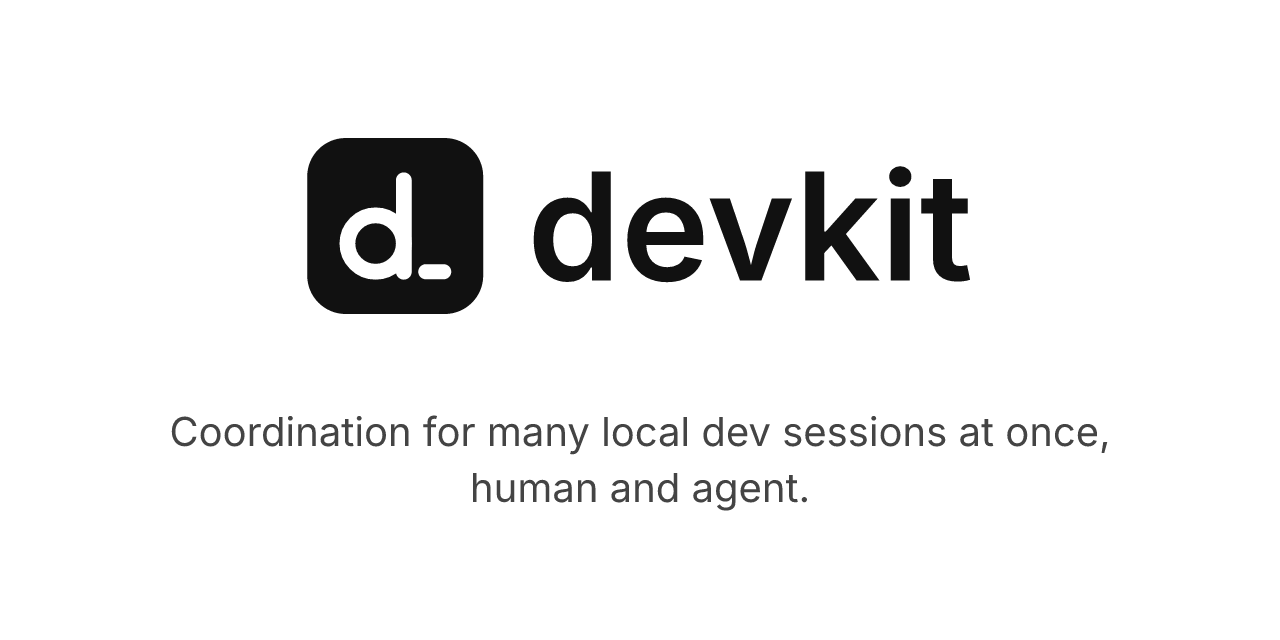
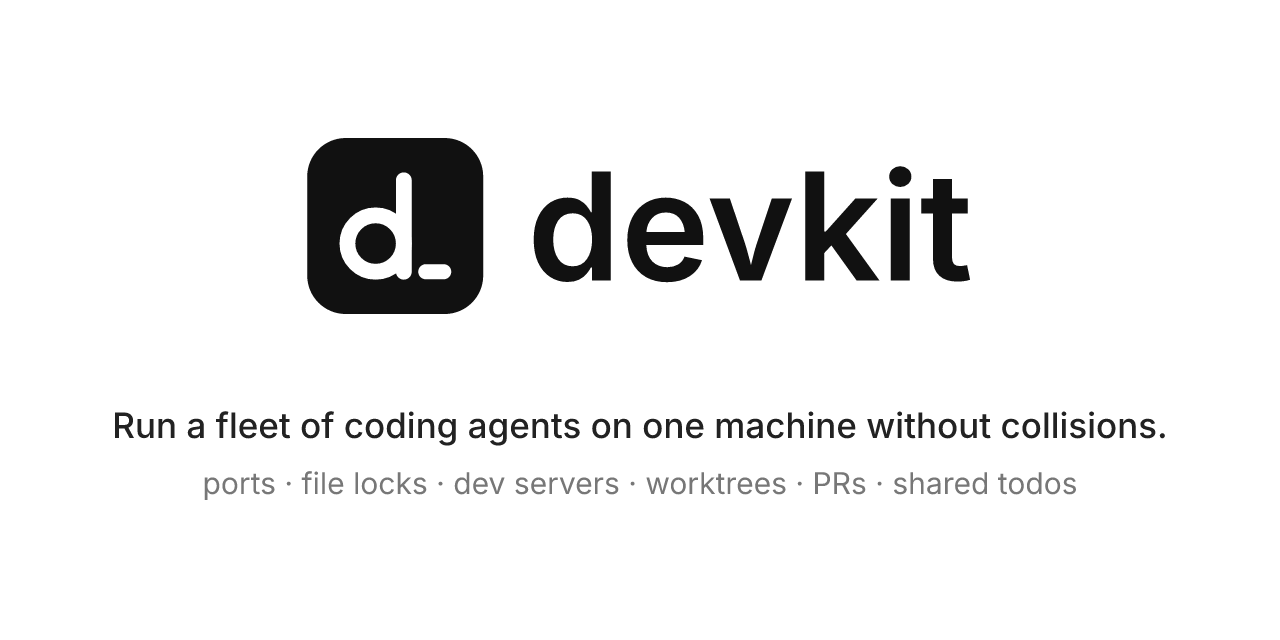
docs: lead with running a fleet of agents
The tagline described the original registries alone. devkit now also
shares todo lists across agents and machines and guards writes and
shell commands through its hooks, so the README opening and the social
card lead with the problem it solves and list what it covers.

Changed region(s): [[0.0938, 0.625, 0.9062, 0.8125]]

diff --git a/README.md b/README.md
@@ -5,14 +5,15 @@
 <h1 align="center">devkit</h1>
 
 <p align="center">
-    Coordination for running many local dev sessions at once, human and agent, as one <code>devkit</code> binary plus an optional <code>devkitd</code> daemon.
+    Run a fleet of coding agents on one machine without collisions.
 </p>
 
-Three things that lean on each other:
+devkit is one `devkit` binary, plus an optional `devkitd` daemon, that gives every session on a machine, human or agent, the same view of what they share:
 
-- Registries for what parallel sessions contend for. Allocated ports, advisory file locks over a shared checkout, running dev servers, and version-correct library checkouts, each one visible to every other session on the machine.
+- Registries for what parallel sessions contend for. Allocated ports, advisory file locks over a shared checkout, supervised dev servers, and version-correct library checkouts, each one visible to every other session.
 - `issue`, an issue-to-PR workflow over git worktrees. Tracker-agnostic, from setup through review request to cleanup.
-- Agent wiring: an MCP server, a session-brief hook, and a skill, so coding agents drive the same registries you do.
+- Todo lists that agents and their subagents share and claim, kept locally or in a Postgres database that several machines claim against.
+- Agent wiring for Claude Code, Codex and Cursor: an MCP server and a plugin whose hooks can claim a lock on every write, guard shell commands, and inject the project's rules as files are edited.
 
 The engine is project-agnostic. Every project-specific detail lives in `devkit.toml`.
 
